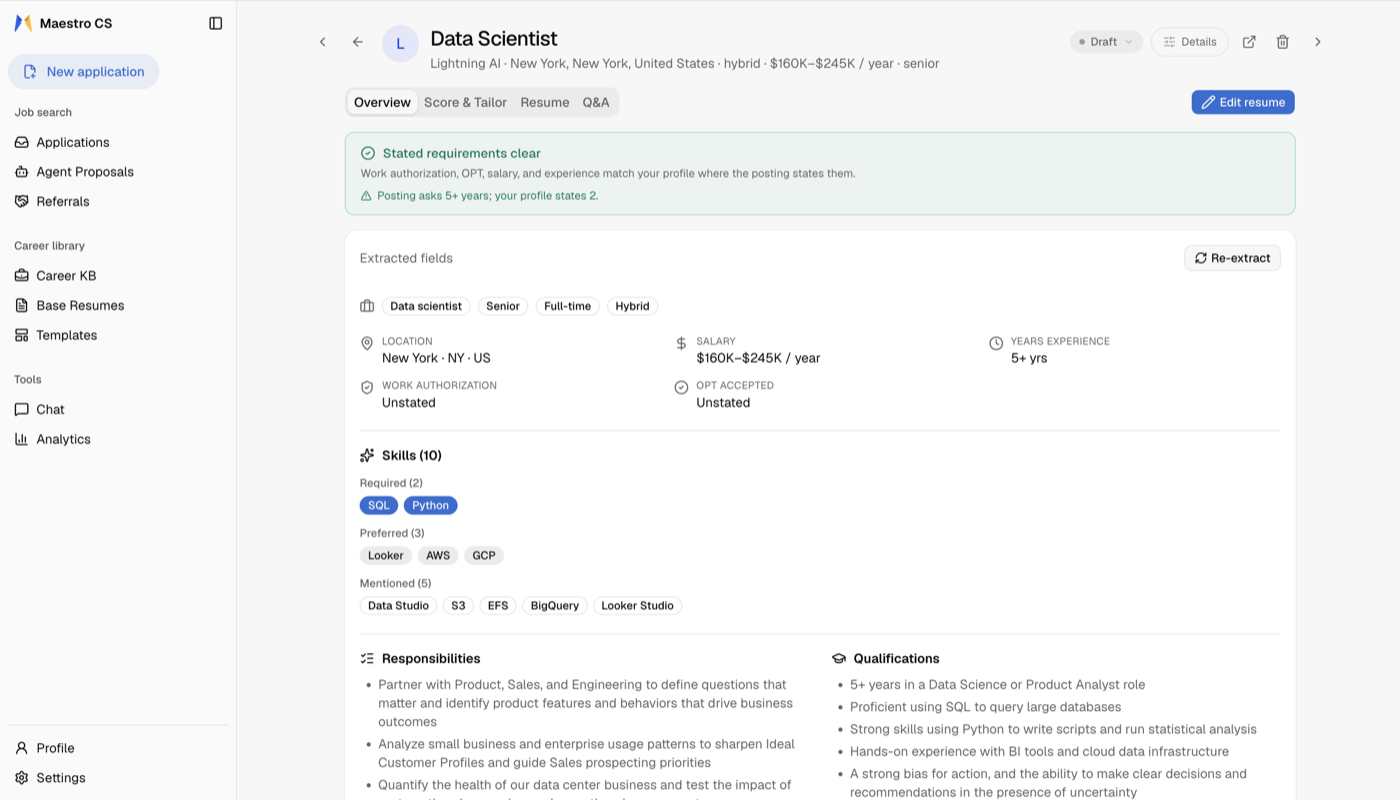
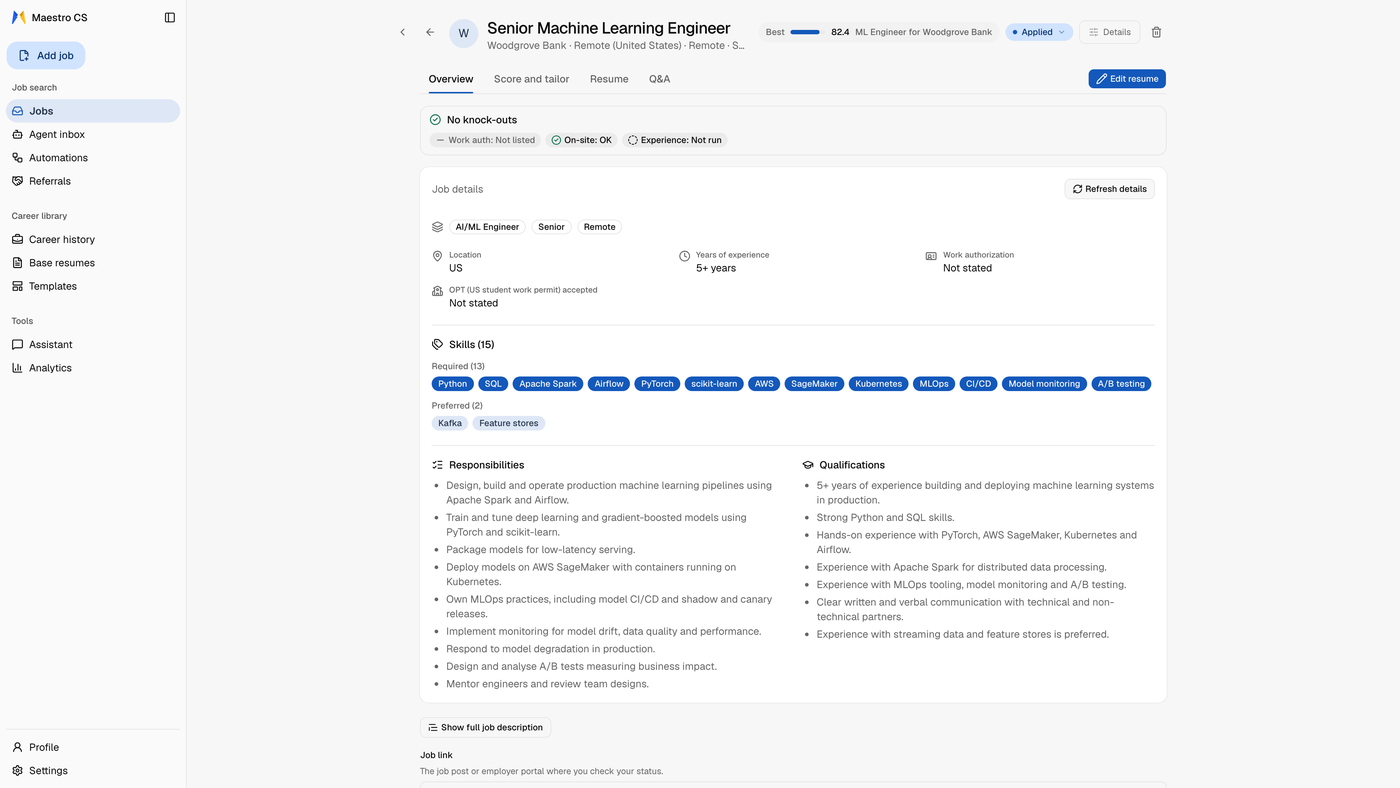
docs: retake every guide screenshot on v0.10.1
The guide's screenshots dated from Aug 20-23 and showed the old UI and
labels (ATS score, Career KB, Applications, Agent Proposals, a five-step
Companion). All are retaken on v0.10.1 with the fictional demo persona.
The MCP dashboard and hunt digest shots, which carried ATS labels and real
employer names, give way to Settings > Connected agents and the Agent
inbox. The Companion GIF drops from 2.7 MB to 340 KB. Captions that no
longer matched the new screens are rewritten.

diff --git a/docs/USING_MAESTRO.md b/docs/USING_MAESTRO.md
@@ -140,12 +140,11 @@ Paste the job description (**Add job**) or save it with the Companion, then scor
 against your base resumes. Scoring uses no AI service, so the same resume and
 job always get the same number.
 
-<!-- job-overview.png captured 2026-08-23: real Lightning AI posting kept on
-     the same precedent as the Visa posting (employer-published public
-     document); the "your profile states 2" line matches the years already
-     public in the shipped resume captures. -->
+<!-- Screenshots in this guide were retaken 2026-10-12 on v0.10.1 with the
+     fictional demo persona (Jordan Ellis, example.com, sample-company names);
+     sources live in the private marketing repo (site-media/). -->
 
-![The job's details, and a check of its stated requirements against your profile — including mismatches](assets/job-overview.png)
+![The job's details and Match score, with a check of its stated requirements against your profile](assets/job-overview.png)
 
 Every saved job also gets a **requirements check**: what the posting *states*
 about work authorization, visa (OPT) policy, salary and years of experience,
@@ -221,7 +220,7 @@ Claude (Desktop or Code), the ChatGPT desktop app or the Codex CLI can run the
 whole process in conversation — read a posting, score it, work the gaps, make
 the PDF. It runs on **your computer** against **your** data.
 
-![Claude pulling the whole pipeline over MCP and building its own view of it](assets/mcp-dashboard.png)
+![Settings › Connected agents: what a connected agent can and can't do, and the one-line command to connect Claude Code or Codex](assets/connected-agents.png)
 
 <!-- TODO(P4) mcp-chat.png — a SECOND shot for this section is still open: a
      Claude conversation answering a real question over the explore tools
@@ -391,7 +390,7 @@ show which companies you applied to and when. Clear it any time in **Analytics
 
 ### Analytics: what the market keeps asking you for
 
-![The market you are actually applying into, in numbers](assets/analytics.png)
+![Your search in numbers: applications over time, where they stand, and the gaps that keep coming up](assets/analytics.png)
 
 Every saved job adds to a picture of the market you're applying into — top
 skills, a skill heatmap, role mix over time — filterable by role, level and job
@@ -404,7 +403,7 @@ tailoring is helping.
 
 ### Hunt with the agent you already use
 
-![A scheduled hunt reporting back — and stopping at your review](assets/hunt-digest.png)
+![What a hunt found, waiting in your Agent inbox for your review](assets/agent-inbox.png)
 
 Your AI assistant can job-hunt for you. It reads your job preferences from the
 app, finds postings on whatever sites it can use, saves and scores them against
